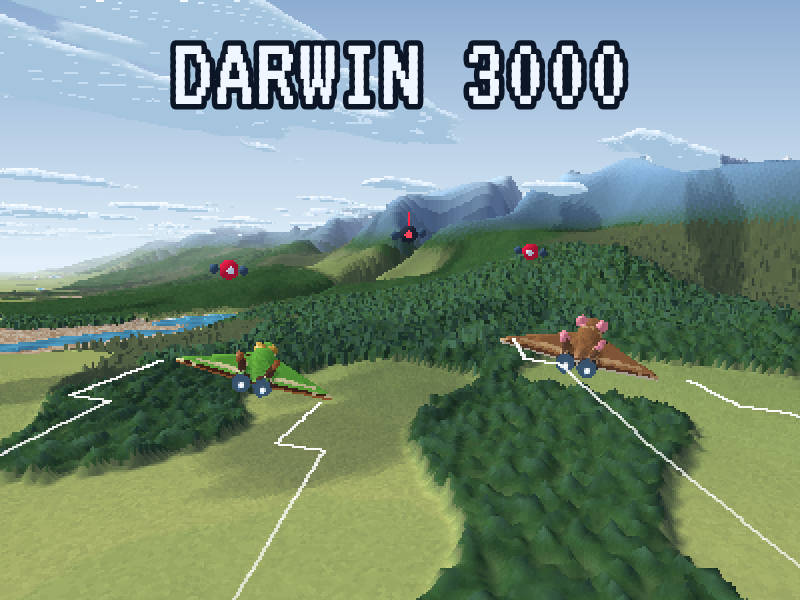
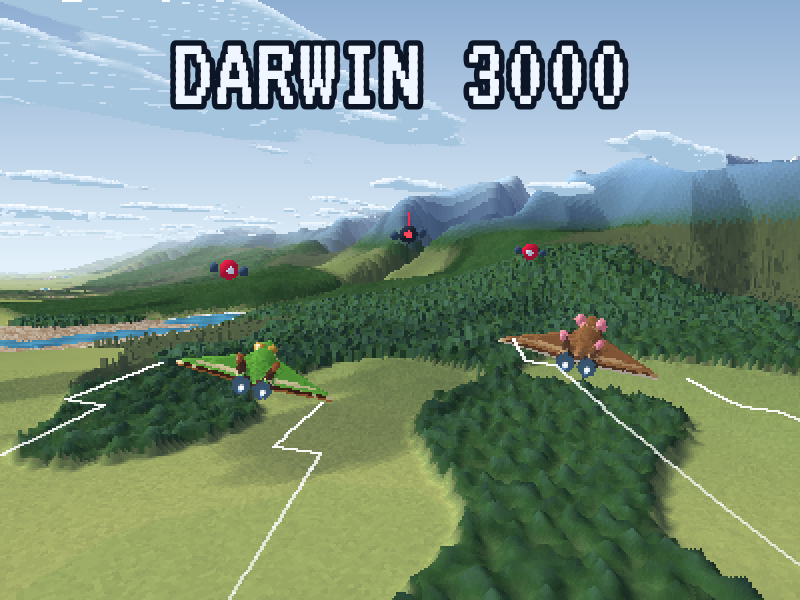
Ranita: cabeza triangular de lados cóncavos, hocico respingado, ojos más chicos

diff --git a/game.js b/game.js
@@ -650,11 +650,15 @@ function partAt(x, y, z, who) {
     return inEll(x, y - 24, z - 6.3, 7.5, 8.5, 6.2) || inEll(x, y - 14.5, z - 4.8, 3.4, 5, 2.9) ? BODY : 0;
   }
   if (who > 1) {
-    // Darwin's portrait: a flat, wide head drawn out into a pointed snout, golden eyes
-    // standing up at its sides
-    if (inEll(d - 7.3, y - 22.5, z - 9.5, 1.5, 1.7, 1.5)) return ENGINE;
-    if (inEll(d - 6, y - 22.5, z - 9, 2.7, 3, 2.7)) return GLASS;
-    return inEll(x, y - 27, z - 5.6, 8.5, 9.5, 5.2) || inEll(x, y - 17, z - 5.2, 4.8, 8, 3.2) || inEll(x, y - 9.5, z - 5.4, 1.8, 3.4, 1.5) ? BODY : 0;
+    // Darwin's portrait: a flat head, from above a triangle with hollow sides, drawn out to a
+    // snout whose tip turns up; small golden eyes stand at its sides
+    if (inEll(d - 5.9, y - 27, z - 8.3, 1, 1.2, 1)) return ENGINE;
+    if (inEll(d - 5, y - 27, z - 7.7, 1.9, 2.1, 1.9)) return GLASS;
+    const t = (y - 7) / 26; // 0 at the tip of the snout, 1 where the head is widest
+    if (t < 0 || t > 1.2) return 0;
+    const u = Math.min(t, 1);
+    const w = 0.9 + 9 * Math.pow(u, 1.7) * (t > 1 ? Math.sqrt(1 - ((t - 1) * 5) ** 2) : 1);
+    return d < w && Math.abs(z - 4.6 - 5.4 * (1 - u) ** 2) < (1 + 3.2 * Math.sqrt(u)) * Math.sqrt(1 - (d / w) ** 2) ? BODY : 0;
   }
   if (who) {
     if (inEll(d - 1.6, y - 8.5, z - 6.4, 1.3, 1.7, 1.3)) return GLASS; // eyes
@@ -2590,7 +2594,18 @@ function face(who, x, y, s, flip) {
   a[4] = rgtY * c - fwdY * n;
   a[0] = -a[4];
   a[1] = a[3];
+  a[2] = a[5] = a[6] = a[7] = 0;
   a[8] = 1;
+  for (let i = 0; i < 9; i += 3) {
+    // tipped towards the viewer — the frog well over, to show the triangle of its head
+    const d = a[i] * fwdX + a[i + 1] * fwdY;
+    const tc = who ? 0.96 : 0.8;
+    const ts = who ? 0.28 : 0.6;
+    const e = d * tc - a[i + 2] * ts - d;
+    a[i + 2] = d * ts + a[i + 2] * tc;
+    a[i] += fwdX * e;
+    a[i + 1] += fwdY * e;
+  }
   f.m = MODELS[who + 2];
   paint(f, x, y, -500, who ? s * 1.2 : s);
 }
